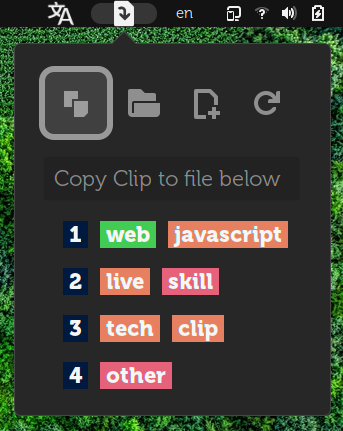
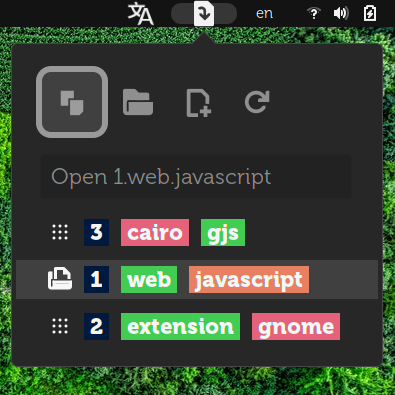
mileage:tips

diff --git a/extension.js b/extension.js
@@ -48,14 +48,12 @@ class Indicator extends PanelMenu.Button {
 		const hbox = new St.BoxLayout();
 		const butt = [];
 		gname.forEach((str, i)=>{
-			const icon = new St.Icon({ icon_name: gicon[i], icon_size: 32, style_class: "cn-icon", track_hover: true });
+			const icon = new St.Icon({ icon_name: gicon[i], icon_size: 30, style_class: "cn-icon", track_hover: true });
 			butt[i] = new St.Button({ child: icon, toggle_mode: gtoggle[i] });
 			butt[i].name = str;	//additional properties
 			//~ checked 状态由 css `:checked` 控制。瞎猜出来的。
 			butt[i].connect('style-changed', (self) => {
-				if(self.hover && ! input.get_reactive() ){
-					input.text = gtip[i];
-				};
+				hover_text(self, gtip[i]);
 			});
 			butt[i].connect('clicked', (self) => {
 				switch(self.name){
@@ -81,14 +79,15 @@ class Indicator extends PanelMenu.Button {
 		this.menu.addMenuItem(mact);
         //~ ---------------------------------------------
         function virtual_click(self){
-			const isnew = (self === butt[2]) ? true : false;
-			input.set_reactive(isnew);
+			const isAddNewFile = (self === butt[2]) ? true : false;
+			input.set_reactive(isAddNewFile);
 			butt.forEach((self)=>{ self.checked = false; });
 			self.checked = true;
-			input.style_class = isnew ? "cn-input-active" : "cn-text";
-			if(isnew){
+			input.style_class = isAddNewFile ? "cn-input-active" : "cn-text";
+			input.hint_text = "";
+			if(isAddNewFile){
 				input.text = "";
-				input.hint_text = _("Input filename use dots split tags.");
+				input.hint_text = _("Input filename here.");
 			}
 		};
 			//~ input.actor.grab_key_focus();
@@ -116,22 +115,33 @@ class Indicator extends PanelMenu.Button {
 		function refresh_menu(owner, list){
 			list.forEach((fname)=>{ add_menu(owner,fname); });
 		};
-         //~ ---------------------------------------------
-         function add_menu(owner,fname){
+        //~ ---------------------------------------------
+        function hover_text(self, str){
+			if(!input.get_reactive()){
+				if(self.hover) input.text = str;
+				else input.text = "";
+			}
+		};
+        //~ ---------------------------------------------
+        function add_menu(owner,fname){
 			const item = new PopupMenu.PopupBaseMenuItem({style_class:'cn-text'});
 			const icon0 = new St.Icon({ icon_name: "document-open-symbolic", icon_size: 24 });
-			const icon1 = new St.Icon({ icon_name: "document-send-symbolic", icon_size: 24 });
+			const icon1 = new St.Icon({ icon_name: "view-app-grid-symbolic", icon_size: 24 });
 			const butt = new St.Button({ child: icon1, track_hover: true });
 			const lbl = new St.Label();
 			const hbox = new St.BoxLayout();
 			hbox.add_child(butt);hbox.add_child(lbl);
 			lbl.clutter_text.set_markup(split2pango(fname));
 			item.add(hbox);
+			item.set_track_hover = true;
+			item.connect('style-changed', (self) => {
+				hover_text(self,_("Copy to ")+butt.filename);
+			});
 			butt.connect('clicked', (self) => {
 				GLib.spawn_command_line_async('xdg-open '+savepath+"/"+butt.filename);
 			});
 			butt.connect('style-changed', (self) => {
-				log(logprefix+" x "+self.filename+" x "+self.hover);
+				hover_text(self,_("Open ")+butt.filename);
 				if(self.hover) self.child = icon0; else self.child = icon1;
 			});
 
